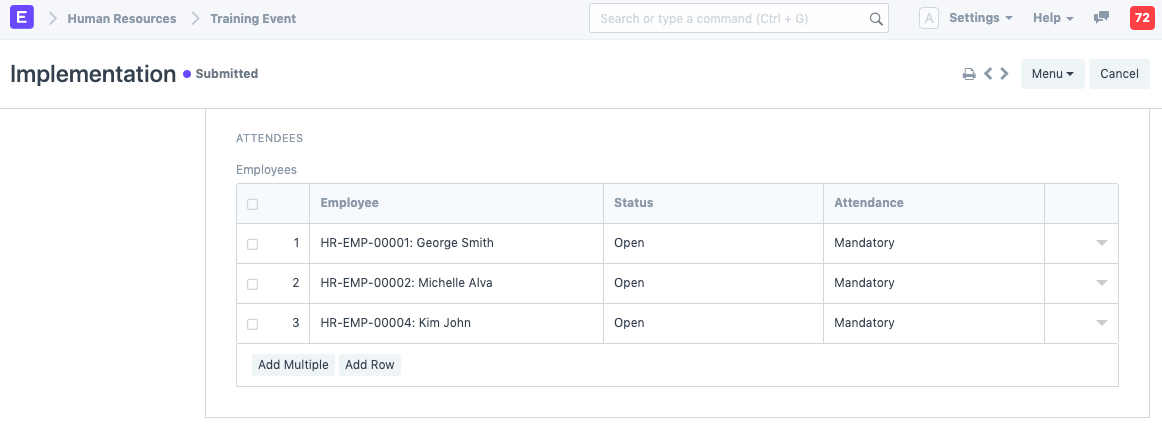
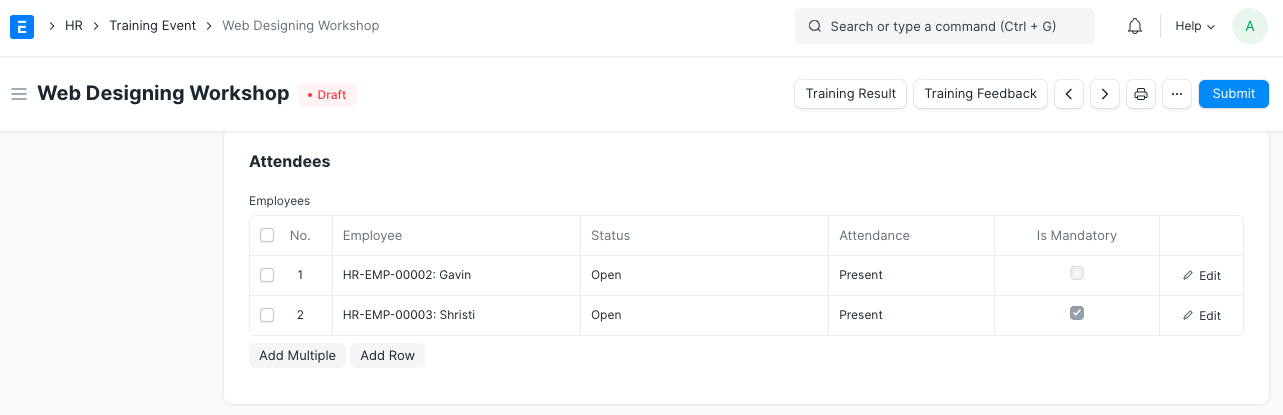
fix: Screenshot

diff --git a/erpnext_documentation/www/docs/user/manual/en/human-resources/training-event.md b/erpnext_documentation/www/docs/user/manual/en/human-resources/training-event.md
@@ -1,6 +1,6 @@
 # Training Event
 
-**Training Event allows you to schedule seminars, workshops, conferences, etc. under a Training Program.** 
+**Training Event allows you to schedule seminars, workshops, conferences, etc. under a Training Program.**
 
 You can also invite your employees to attend the event using this feature.
 
@@ -37,7 +37,7 @@ Before creating a Training Event, it is advisable you create the following docum
 
 You can invite your employees to attend the Training Event. You can do so by selecting the employees to be invited in the Employees table.
 
-By default the status of the employee will be 'Open'.
+By default the status of the employee will be 'Open'. You can mark the Event as Mandatory.
 
 <img class="screenshot" alt="Employee" src="{{docs_base_url}}/assets/img/human-resources/training-event-employee.png">
 
